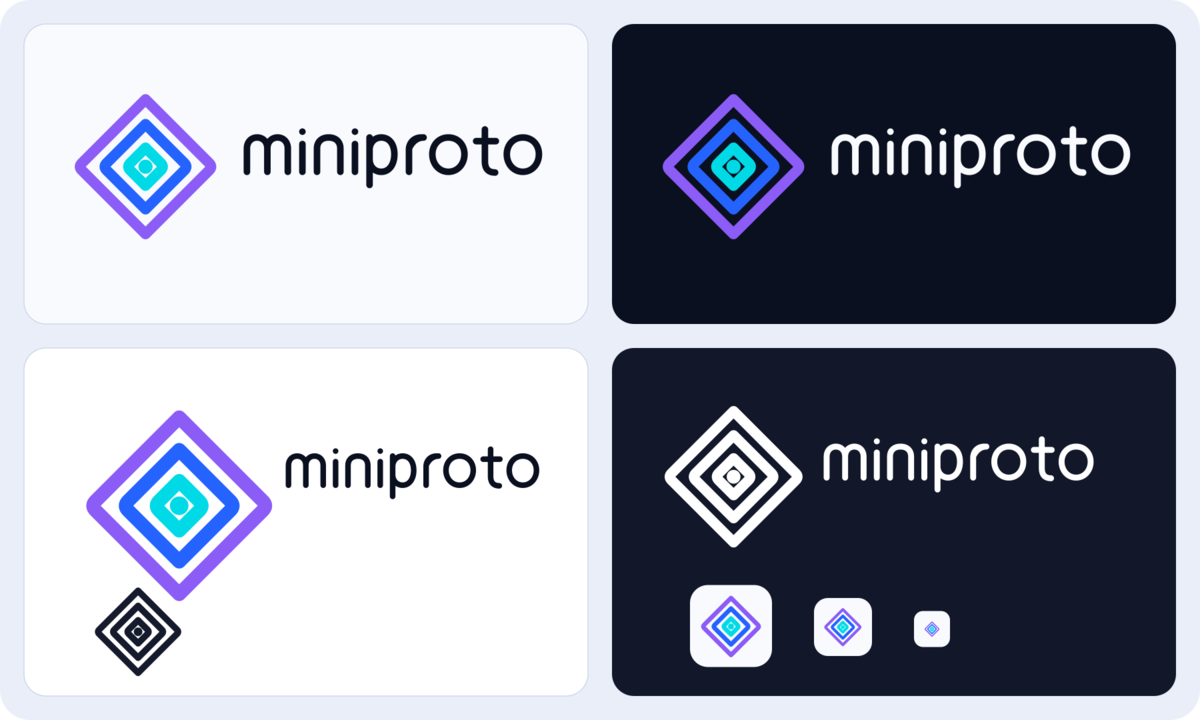
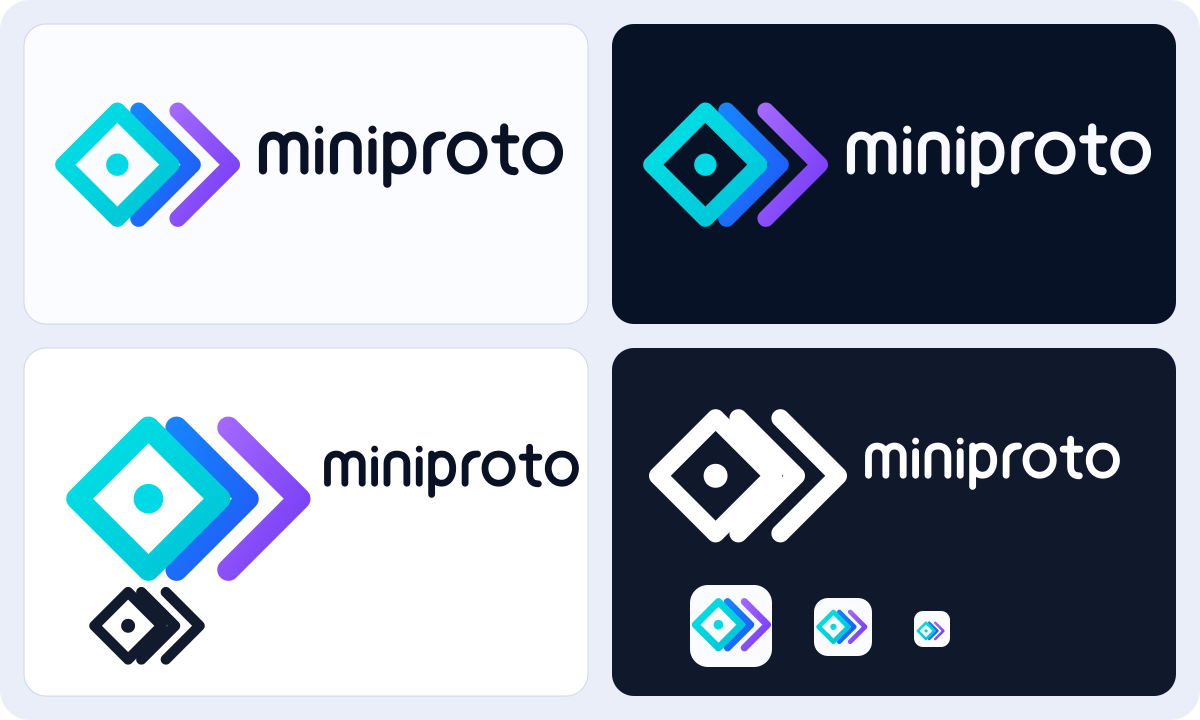
chore(docs): refine existing branding ideas, add more the [poll](https://t.me/EDM115bots/1055) has spoken, but I couldn't quite make up my mind :) so 4 -> 8 ideas. will run a vote for 3 days. the generated SVGs are a mess and will be refined later. ideation images should be the key focus, although t

diff --git a/docs-site/src/assets/brand/concepts/README.md b/docs-site/src/assets/brand/concepts/README.md
@@ -1,26 +1,42 @@
 # miniproto Logo Concepts
 
-These four directions implement the approved Wave 5 brand brief without selecting a winner. The selected direction will be refined into the production logo, dark variant, standalone mark, monochrome mark, favicon, wordmark lockups, and social artwork only after the maintainer chooses a family.
+These eight directions implement the approved Wave 5 brand brief without selecting a winner. The first four preserve the same marks and ideas as their original inspiration boards, but both the boards and canonical vectors have been regenerated cleanly to remove bloom, malformed lettering, accidental asymmetry, inconsistent variants, and other generated artifacts. The next four explore other recognizable parts of miniproto: Telegram-compatible delivery, free-threaded Python with a Rust core, quick acknowledgements, and multi-source schema generation.
+
+The selected direction will be refined into the production logo, dark variant, standalone mark, monochrome mark, favicon, horizontal and stacked wordmark lockups, social artwork, and documentation theme only after the maintainer chooses a family.
 
 ## Creative Brief
 
-miniproto is a compact, async-first MTProto SDK whose identity should make speed, protocol correctness, security, controlled data flow, and the Python/Rust relationship feel tangible. The mark must remain serious enough for infrastructure documentation while retaining enough character to be memorable in an open-source ecosystem.
+miniproto is a compact, async-first MTProto SDK whose identity should make speed, protocol correctness, controlled data flow, and the Python/Rust relationship feel tangible. The mark must remain serious enough for infrastructure documentation while retaining enough character to be memorable among established Telegram client libraries.
 
-Every direction avoids Telegram's paper-plane trademark, literal Python/Rust mascots, generic shields and padlocks, cryptocurrency styling, illegible micro-detail, and forms that work on only one background. Every `concept.svg` is self-contained vector geometry with an accessible title and description, a `viewBox`, path-based wordmark lettering, no `<text>`, no `<image>`, no embedded bitmap, no external asset, and no installed-font dependency. The adjacent `preview.png` is rendered from that SVG for convenient review. The adjacent `ideation.png` records the built-in image-generation exploration that informed the deterministic SVG; it is not the production source.
+The reference libraries demonstrate the value of one decisive silhouette: Pyrogram's flame and its Kurigram/Pyroblack variants, Hydrogram's droplet, Telethon's `T`, and mtcute's flower are recognizable before their wordmarks are read. Each miniproto direction therefore has one primary emblem rather than a scene or collection of unrelated symbols. Packet Plane deliberately alludes to Telegram's familiar delivery metaphor without copying its exact plane path, enclosing circle, or visual identity; the other seven avoid the paper-plane motif entirely.
+
+Every `concept.svg` is the canonical source for its family. It contains self-contained vector geometry, an accessible title and description, a `viewBox`, path-based wordmark lettering, no `<text>`, no `<image>`, no embedded bitmap, no external asset, and no installed-font dependency. The adjacent `preview.png` is a deterministic render of that SVG for convenient review. The adjacent `ideation.png` records the built-in image-generation exploration; it is neither traced nor embedded in the canonical artwork.
 
 ## Directions
 
 | Direction | Core idea | Strengths | Risks | Likely site mood |
 | --- | --- | --- | --- | --- |
-| Protocol Aperture | Three nested protocol frames focus on one data pulse. | Directly expresses layers, framing, precision, and progressive depth; strongest connection to schema and transport concepts. | Concentric geometry can feel familiar if the spacing and color are not refined carefully. | Electric, precise, premium infrastructure. |
-| Duplex Rails | Two independent transport rails cooperate around a packet gap and form an abstract `m`/`p`. | Most ownable silhouette; communicates bidirectional flow and the Python/Rust pairing without literal language marks. | The negative-space monogram needs careful optical refinement at 16 px. | Energetic, fast, developer-forward. |
-| Packet Loom | Seven deterministic tiles and one signal tile turn generated structure into a compact data mark. | Best small-size geometry; distinctive modular system can extend naturally to diagrams, callouts, and motion. | Tile systems can skew playful or product-app-like if the final typography is too soft. | Technical, modular, slightly playful. |
-| Clocked Core | An open phase orbit and three acknowledgement nodes synchronize around a stable core. | Strong motion and runtime/reliability story; very different from typical code-library identities. | Circular marks can drift toward generic platform or telemetry branding without a distinctive wordmark. | Kinetic, confident, runtime-centric. |
+| Protocol Aperture | Three offset protocol frames focus on one data pulse. | Directly expresses layers, framing, precision, and progressive depth; strongest connection to schema and transport concepts. | Nested geometry can feel familiar if spacing and color are not refined carefully. | Electric, precise, premium infrastructure. |
+| Duplex Rails | Two independent transport rails cooperate around a packet gap and form an abstract `m`/`p`. | Ownable silhouette; communicates bidirectional flow and the Python/Rust pairing without literal language marks. | The negative-space monogram needs careful optical refinement at favicon size. | Energetic, fast, developer-forward. |
+| Packet Loom | Five deterministic input tiles converge into one accelerated output tile. | Excellent small-size geometry; the modular system can extend naturally to diagrams, callouts, and motion. | Tile systems can skew product-app-like if the final typography becomes too soft. | Technical, modular, slightly playful. |
+| Clocked Core | One open timing orbit and three acknowledgement nodes synchronize around a stable native core. | Strong motion and runtime-reliability story; very different from typical code-library identities. | Orbital marks can drift toward generic telemetry branding without a distinctive lockup. | Kinetic, confident, runtime-centric. |
+| Packet Plane | A folded delivery plane leaves exactly three discrete packet blocks in its wake. | Most immediate Telegram association while remaining a custom mark; strong motion, compact silhouette, and memorable negative-space fold. | Must remain visibly distinct from Telegram's exact paper plane and from generic messaging-app icons. | Fast, approachable, unmistakably Telegram-adjacent. |
+| Threadburst | Four independent execution strands curve around an amber native core. | Directly expresses free-threaded Python, simultaneous work, and the Rust fast path; unusual metaphor for a Telegram library. | The pinwheel-like form may require careful animation and color restraint to avoid generic AI branding. | Parallel, modern, performance-led. |
+| Quick-Ack Comet | A packet races ahead of two notched acknowledgement echoes. | Encodes a specific high-performance MTProto capability and creates a strong sense of latency reduction. | The open trail is less compact than the other marks and may need simplification below 24 px. | Swift, technical, network-native. |
+| Schema Prism | Three source facets reconcile into one generated constructor tile. | Bespoke to miniproto's schema pipeline; faceted form supports an expressive duotone visual system. | The prism can read as a generic developer-tool gem without supporting copy or motion. | Structured, polished, generator-centric. |
 
-## Selection Criteria
+## Review Sequence
 
-Choose based on the core metaphor and silhouette, not the provisional palette. Color, spacing, line weight, and wordmark construction are refinement variables. The strongest family should remain recognizable in the 16 px sample, work in one color, avoid accidental resemblance to another brand, and support a visually distinctive but readable documentation site.
+1. Compare the standalone marks in the large light and dark panels and ignore provisional palette preferences.
+2. Check the monochrome mark. A family that only works through color is not yet robust enough.
+3. Inspect the 64, 32, and 16 px samples. The core silhouette should survive even when secondary detail disappears.
+4. Decide whether the metaphor represents the whole library or merely one implementation detail.
+5. Choose one primary family and, if useful, identify one secondary family whose color, motion, or typography should inform refinement.
+
+The strongest family should be recognizable before the `miniproto` wordmark is read, work on light and dark surfaces, remain clear in one color, avoid accidental resemblance to another client library, and support a distinctive but readable documentation site.
 
 ## Generated Ideation
 
-The four PNG boards were generated with the built-in image-generation tool using the `logo-brand` use case. Each prompt requested an icon, exact `miniproto` lockup, light/dark treatment, monochrome treatment, and 16/32/64 px samples while explicitly excluding paper planes, Telegram identity, shields, padlocks, crypto marks, micro-detail, and watermarks. The SVG sheets deliberately simplify those boards into reproducible geometry instead of tracing or embedding the raster output.
+All eight PNG boards were produced with the built-in image-generation tool using a logo-brand exploration brief. The first four were regenerated from their original boards as image edits, preserving their named silhouettes and ideas while explicitly removing glow, malformed text, geometry drift, mockup effects, and inconsistent small-size variants. The next four were generated as new explorations around the Packet Plane, Threadburst, Quick-Ack Comet, and Schema Prism metaphors.
+
+Every prompt requested the exact `miniproto` lockup, light and dark presentation, a monochrome treatment, and 64/32/16 px samples. The boards are visual references only: generated lettering and sample geometry are not authoritative, and the SVGs deliberately rebuild the approved ideas as deterministic vector artwork instead of tracing raster output.

diff --git a/docs/THOUGHTS.md b/docs/THOUGHTS.md
@@ -136,4 +136,4 @@ This behavior wouldn't be the default but rather an option that users can toggle
 ## 2026-08-15 — Unknown model — Codex — "Wave 5 implementation"
 
 - A structurally complete docstring sweep is not enough for the generated reference: the first strict audit still found 724 maintained Python callables with 1,469 undescribed explicit arguments under `src/miniproto` outside generated raw API. Wave 5 must require meaningful structured descriptions for every non-receiver argument across maintained Python (including `tools/**`) and Rust, keep tests and generated raw API outside that policy, and enforce zero findings automatically before generating or accepting reference pages.
-- The Wave 5 brand gate now has four self-contained SVG families under `docs-site/src/assets/brand/concepts`: Protocol Aperture, Duplex Rails, Packet Loom, and Clocked Core. Do not select one implicitly or build final theme/homepage/README brand assets from the raster ideation boards; wait for the maintainer's explicit family choice, then refine the selected `concept.svg` into the production source.
+- The Wave 5 brand gate now has eight self-contained SVG families under `docs-site/src/assets/brand/concepts`: faithful clean reconstructions of Protocol Aperture, Duplex Rails, Packet Loom, and Clocked Core, plus Packet Plane, Threadburst, Quick-Ack Comet, and Schema Prism. Raster boards are disposable exploration records rather than production sources; do not select a winner implicitly or build final theme/homepage/README brand assets until the maintainer explicitly chooses a family, then refine that `concept.svg` into the production source.
